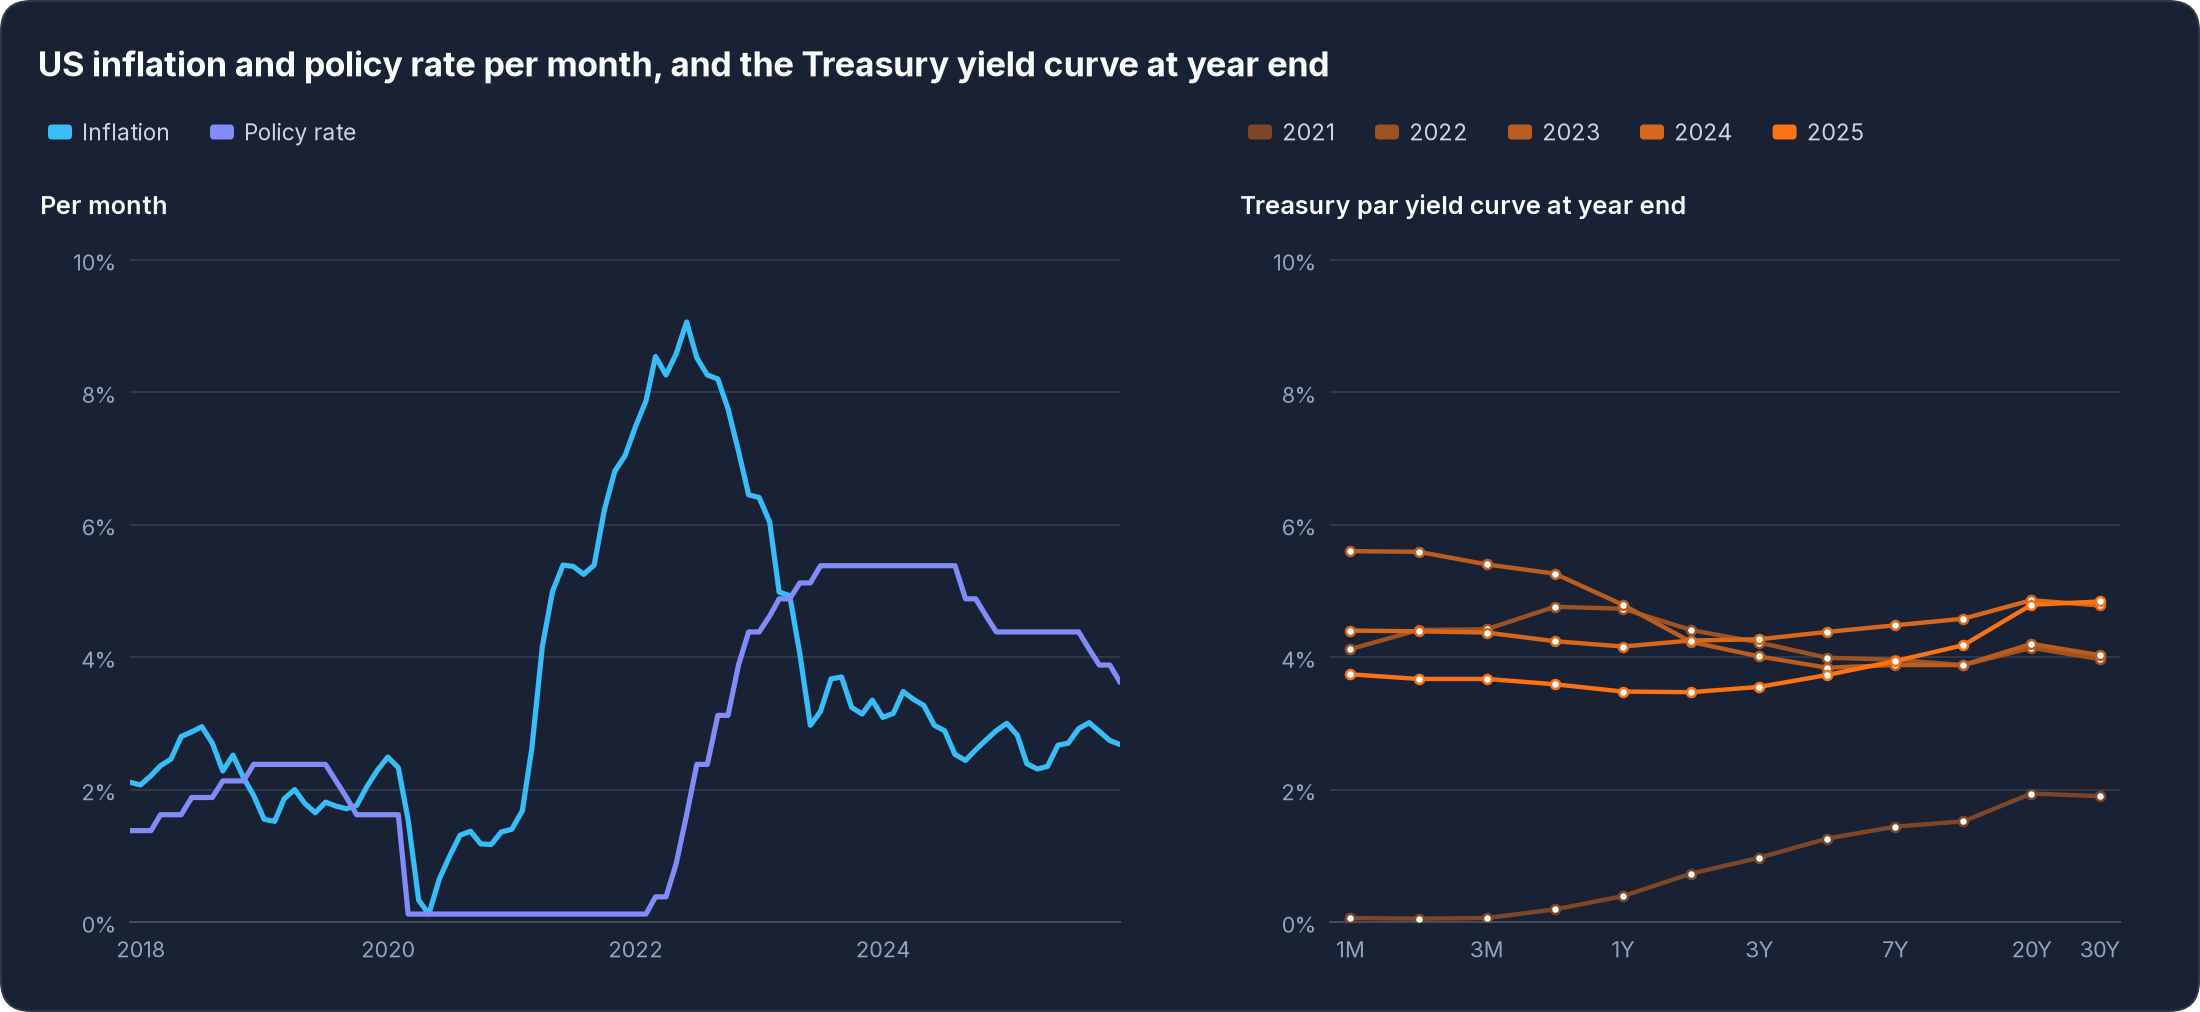
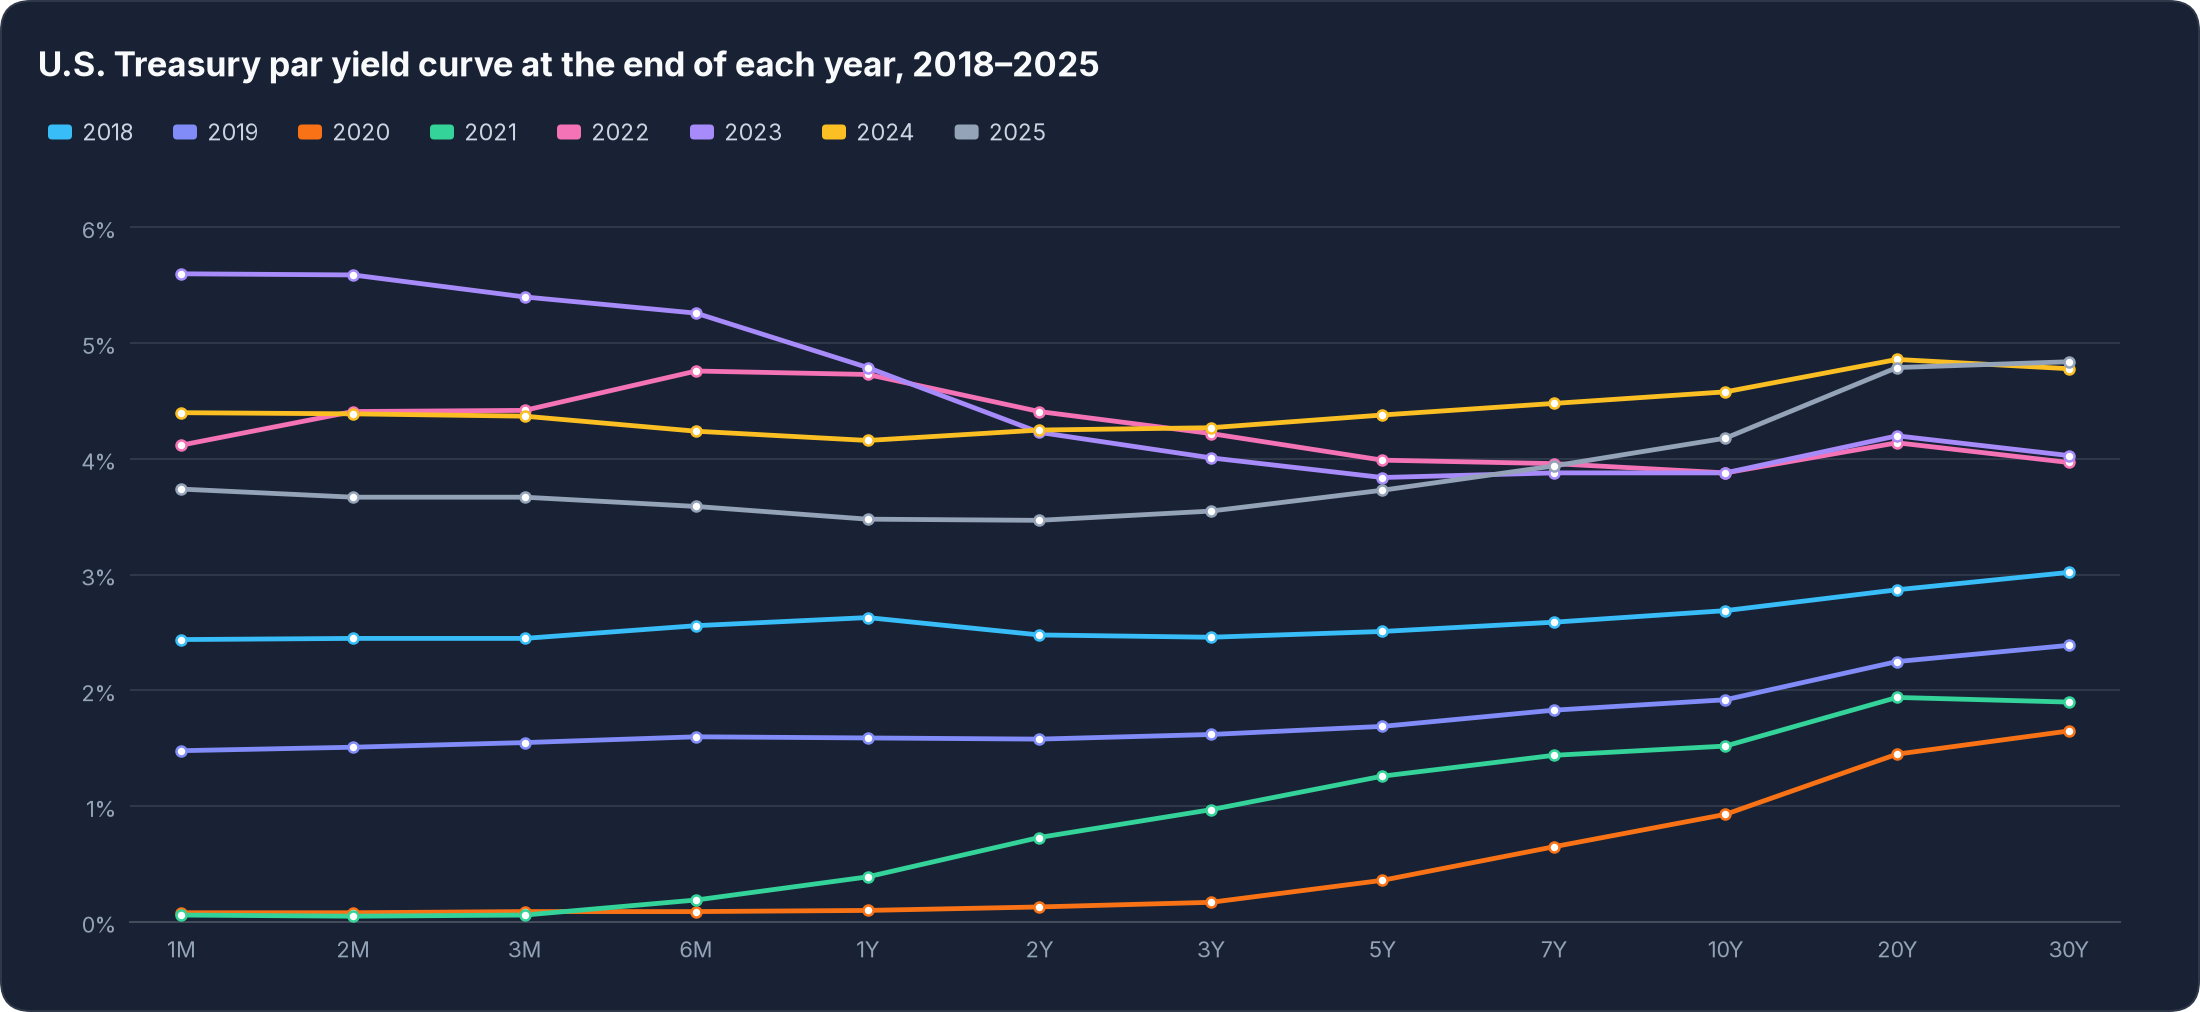
Show Nvidia's regression and plot the year-end yield curves
The Economic Relations table shows one company while the chart compares all three, and the economics chart plots the Treasury yield curve at the end of each year, as the table shows it.

diff --git a/README.md b/README.md
@@ -351,7 +351,7 @@ For example, the yield curve at the end of each year is shown below.
 |   2024 |    0.044  |    0.0439 |    0.0437 |    0.0424 |   0.0416 |   0.0425 |   0.0427 |   0.0438 |   0.0448 |    0.0458 |    0.0486 |    0.0478 |
 |   2025 |    0.0374 |    0.0367 |    0.0367 |    0.0359 |   0.0348 |   0.0347 |   0.0355 |   0.0373 |   0.0394 |    0.0418 |    0.0479 |    0.0484 |
 
-And below inflation and the policy rate are plotted for each month, next to the yield curve at the end of the last five years. When short-term yields lie above long-term ones, as at the end of 2022 and 2023, the curve is inverted.
+And below the yield curve at the end of each year is plotted. It went from almost zero at the short end in 2021 to above 4% across all maturities a year later, and when short-term yields lie above long-term ones, as at the end of 2022 and 2023, the curve is inverted.
 
 <picture>
   <source media="(prefers-color-scheme: dark)" srcset="https://raw.githubusercontent.com/JerBouma/FinanceToolkit/main/assets/readme/economics-dark.png">
@@ -391,23 +391,17 @@ regressions = pd.concat(
     }
 )
 
-# Show the results
-regressions
+# Show the results for Nvidia
+regressions.loc["NVDA"]
 ```
 
-For example, the coefficients for each company are shown below.
+For example, the coefficients for Nvidia are shown below.
 
-|                                    |   Coefficient |   Std. Error |   t-Statistic |   P-Value |
-|:-----------------------------------|--------------:|-------------:|--------------:|----------:|
-| ('NVDA', 'Intercept')              |        0.049  |       0.0129 |        3.8028 |    0.0003 |
-| ('NVDA', 'Real Yield')             |      -22.8132 |       5.6358 |       -4.0479 |    0.0001 |
-| ('NVDA', 'Inflation Expectations') |       18.1329 |       9.1029 |        1.992  |    0.0493 |
-| ('AMD', 'Intercept')               |        0.047  |       0.0151 |        3.1182 |    0.0024 |
-| ('AMD', 'Real Yield')              |      -34.1771 |       6.59   |       -5.1862 |    0      |
-| ('AMD', 'Inflation Expectations')  |       10.8116 |      10.644  |        1.0157 |    0.3124 |
-| ('INTC', 'Intercept')              |        0.0078 |       0.0107 |        0.7316 |    0.4663 |
-| ('INTC', 'Real Yield')             |      -18.6985 |       4.6705 |       -4.0035 |    0.0001 |
-| ('INTC', 'Inflation Expectations') |       -1.1572 |       7.5438 |       -0.1534 |    0.8784 |
+|                        |   Coefficient |   Std. Error |   t-Statistic |   P-Value |
+|:-----------------------|--------------:|-------------:|--------------:|----------:|
+| Intercept              |        0.049  |       0.0129 |        3.8028 |    0.0003 |
+| Real Yield             |      -22.8132 |       5.6358 |       -4.0479 |    0.0001 |
+| Inflation Expectations |       18.1329 |       9.1029 |        1.992  |    0.0493 |
 
 And below each coefficient is shown with its 95% confidence interval. The yields are decimals, so a change of 0.001 is 0.1 percentage point, and a coefficient of -20 means a monthly return 2% lower for every 0.1 percentage point the yield rose. All three are valued on earnings that lie far ahead, which a higher real yield discounts more heavily: a 0.1 percentage point rise in the real yield went with a monthly return about 2.3% lower for Nvidia, 3.4% lower for AMD and 1.9% lower for Intel, each significant at the 1% level. Rising inflation expectations, often a sign of a growing economy, went with a higher return for Nvidia, significant at the 5% level, but made no significant difference for AMD and Intel. Short-term rates matter less than they might seem: the 3-month yield shows no significant relation with these returns, as the Federal Reserve's policy rate reaches growth companies mainly through the long-term real yields it moves.
 
